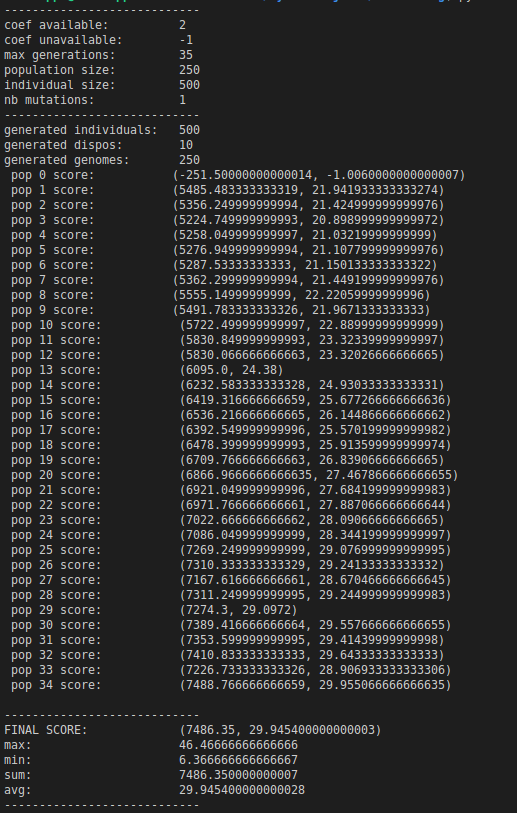
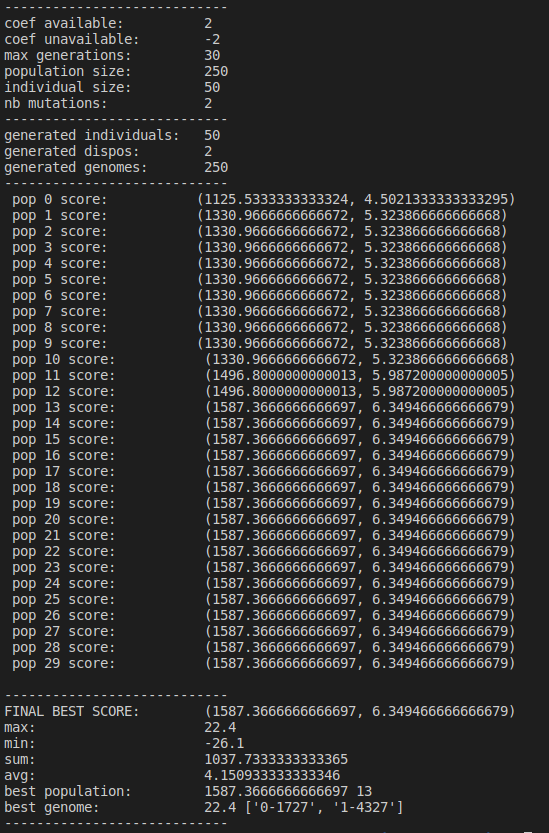
screenshot

diff --git a/main.py b/main.py
@@ -6,7 +6,7 @@ from os import sys
 ga = GA(
     coef_available=2,
     coef_unavailable=-2,
-    max_generations=40,
+    max_generations=30,
     population_size=250,
     mock_individuals_size=50,
     nb_mutations=2
